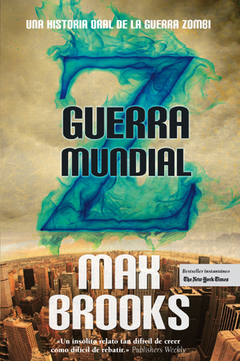
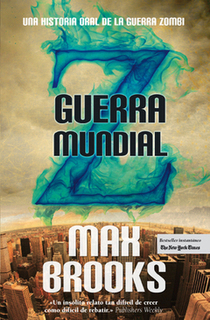
Resize imgs/categories

Changed region(s): [[0.9714, 0.875, 1.0, 0.9062], [0.4286, 0.9375, 0.4571, 0.9688]]

diff --git a/src/css/style.css b/src/css/style.css
@@ -396,9 +396,7 @@ header:not(.header-main){
     justify-content: space-between;
     align-items: center;
     flex-direction: column-reverse; 
-    max-width: 210px;
-    min-height: 350px;
-    width: 215px;
+    min-width: 210px;
 }
 
 .card-content > h3 {
@@ -421,7 +419,6 @@ header:not(.header-main){
     object-fit: cover; 
     object-position: center;
     width: 100%;
-    height: 320px;
 }
 
 .card-content .card-tags{
